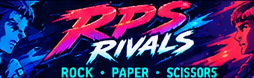
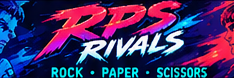
Experiment: marquee bezel on all four sides with a neon loop
The art window narrows to 234x78 so the bezel also covers its left and right edges.

Claude-Session: https://claude.ai/code/session_016L8X9LrscvCgNUAvszt7Le

diff --git a/apps/game/src/assets/placeholders/cabinet.ts b/apps/game/src/assets/placeholders/cabinet.ts
@@ -30,23 +30,28 @@ export function paintCabinet(): PixelBuffer {
   b.rect(2, 0, 1, CABINET.height, palette.pink);
   b.rect(W - 3, 0, 1, CABINET.height, palette.pink);
 
-  // marquee: a bezel above and below the art window; CabinetScene puts assets/marquee.png in it
+  // marquee: a bezel all around the art window, with a neon strip running round it;
+  // CabinetScene puts assets/marquee.png in the window
   const art = MARQUEE.art;
-  const top = MARQUEE.y + 3;
-  const bottom = MARQUEE.y + art.y + art.height + 1;
-  const bezel = (y: number, h: number, lightY: number) => {
-    b.rect(8, y, W - 16, h, 0x181028);
-    b.rect(8, y, W - 16, 1, 0x3a2a5c); // top highlight
-    b.rect(8, y + h - 1, W - 16, 1, 0x0b0716); // bottom shade
-    b.rect(14, lightY, W - 28, 1, palette.pink); // neon strip
-    b.rect(14, lightY + 1, W - 28, 1, 0x5a1450);
-    for (const x of [11, W - 12]) {
-      b.px(x, y + Math.floor(h / 2) - 1, 0x8a7ab0); // screw heads
-      b.px(x, y + Math.floor(h / 2), 0x4a3a70);
-    }
-  };
-  bezel(top, art.y - 4, top + Math.floor((art.y - 4) / 2) - 1);
-  bezel(bottom, MARQUEE.y + 101 - bottom, bottom + Math.floor((101 - bottom) / 2) - 1);
+  const mx = 8;
+  const my = MARQUEE.y + 3;
+  const mw = W - 16;
+  const mh = 98;
+  b.rect(mx, my, mw, mh, 0x181028);
+  b.rect(mx, my, mw, 1, 0x3a2a5c); // highlight top and left
+  b.rect(mx, my, 1, mh, 0x3a2a5c);
+  b.rect(mx, my + mh - 1, mw, 1, 0x0b0716); // shade bottom and right
+  b.rect(mx + mw - 1, my, 1, mh, 0x0b0716);
+  const n = { x: mx + 4, y: my + 4, w: mw - 8, h: mh - 8 }; // neon loop, halfway into the bezel
+  b.frame(n.x, n.y, n.w, n.h, palette.pink);
+  b.frame(n.x + 1, n.y + 1, n.w - 2, n.h - 2, 0x5a1450);
+  for (const [x, y] of [
+    [mx + 2, my + 2],
+    [mx + mw - 3, my + 2],
+    [mx + 2, my + mh - 3],
+    [mx + mw - 3, my + mh - 3],
+  ] as const)
+    b.px(x, y, 0x8a7ab0); // screw heads in the corners
   b.rect(art.x - 1, MARQUEE.y + art.y - 1, art.width + 2, art.height + 2, palette.black);
 
   // monitor bezel (the monitor scenes draw inside it)

diff --git a/apps/game/src/config/layout.ts b/apps/game/src/config/layout.ts
@@ -7,8 +7,8 @@ export const CABINET = { width: 270, height: 472 } as const;
  */
 export const MONITOR = { x: 27, y: 116, width: 216, height: 216 } as const;
 
-/** The marquee band at the top of the cabinet: its art (assets/marquee.png) sits in `art`, with a bezel above and below. */
-export const MARQUEE = { y: 0, height: 104, art: { x: 8, y: 13, width: 254, height: 78 } } as const;
+/** The marquee band at the top of the cabinet: its art (assets/marquee.png) sits in `art`, with a bezel all around it. */
+export const MARQUEE = { y: 0, height: 104, art: { x: 18, y: 13, width: 234, height: 78 } } as const;
 
 export const PANEL = { y: 344, height: 128 } as const;
 

diff --git a/tools/make-marquee.py b/tools/make-marquee.py
@@ -2,10 +2,10 @@
 
 Run with: python3 tools/make-marquee.py   (needs Pillow)
 
-Writes apps/game/public/assets/marquee.png: 254x78 native pixels, the marquee art area of the
-cabinet with the square monitor (see config/layout.ts), between a bezel above and below it.
+Writes apps/game/public/assets/marquee.png: 234x78 native pixels, the marquee art area of the
+cabinet with the square monitor (see config/layout.ts), inside a bezel on all four sides.
 The sheet's marquee is 291x78: it is used at 1:1 (no rescaling, so it stays as sharp as the
-sheet) and the sides are trimmed to 254 px, which keeps the logo and tagline whole.
+sheet) and the sides are trimmed to 234 px, which keeps the logo and tagline whole.
 """
 
 from pathlib import Path
@@ -17,7 +17,7 @@ SHEET = ROOT / "docs/mockups/redesign/mockups-game-2.png"
 OUT = ROOT / "apps/game/public/assets/marquee.png"
 
 BOX = (33, 284, 324, 362)  # the main-menu cabinet's marquee art in the sheet (291x78)
-SIZE = (254, 78)
+SIZE = (234, 78)
 
 
 def main() -> None:
